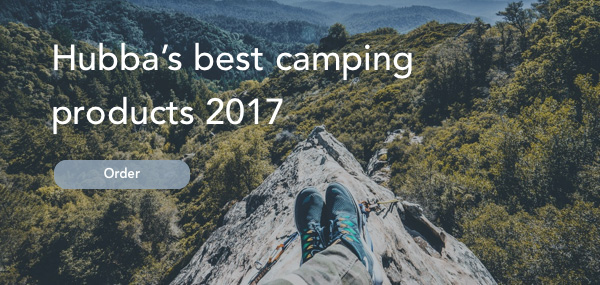
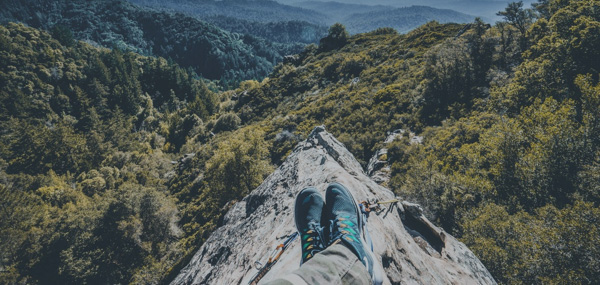
added background image, more buttons, finessed padding, updated header image

Changed region(s): [[0.09, 0.1404, 0.69, 0.2807], [0.09, 0.3368, 0.48, 0.4772], [0.09, 0.5614, 0.33, 0.6737]]

diff --git a/index.html b/index.html
@@ -2,8 +2,8 @@
 <html xmlns="http://www.w3.org/1999/xhtml">
 <head>
 	<!-- NOTE: Created with assistance from Future proofing a responsive email - https://webdesign.tutsplus.com/tutorials/creating-a-future-proof-responsive-email-without-media-queries--cms-23919 -->
-
-	<!-- Email buttons taken from http://buttons.cm-->
+	<!-- Background image from https://backgrounds.cm/ -->
+	<!-- Email buttons from http://buttons.cm-->
 	<meta http-equiv="Content-Type" content="text/html; charset=utf-8" />
     <!--[if !mso]><!-->
         <meta http-equiv="X-UA-Compatible" content="IE=edge" />
@@ -29,7 +29,31 @@
 			<table class="outer" align="center">
 				<tr>
 					<td class="full-width-image">
-						<img src="images/header.jpg" width="600" alt="" />
+						<table cellpadding="0" cellspacing="0" border="0" height="285" width="100%">
+							<tr>
+								<td background="images/header.jpg" bgcolor="#7bceeb" valign="top">
+								<!--[if gte mso 9]>
+								<v:rect xmlns:v="urn:schemas-microsoft-com:vml" fill="true" stroke="false" style="mso-width-percent:1000;height:92px;">
+								<v:fill type="tile" src="https://i.imgur.com/YJOX1PC.png" color="#7bceeb" />
+								<v:textbox inset="0,0,0,0">
+								<![endif]-->
+							<div class="wrapper">
+								<h1>Hubba's best camping products 2017</h1>
+								<div><!--[if mso]>
+								  <v:roundrect xmlns:v="urn:schemas-microsoft-com:vml" xmlns:w="urn:schemas-microsoft-com:office:word" href="http://www.hubba.com" style="height:29px;v-text-anchor:middle;width:136px;" arcsize="44%" strokecolor="#91A4B5" fillcolor="#91A4B5">
+								    <w:anchorlock/>
+								    <center style="color:#ffffff;font-family:sans-serif;font-size:13px;font-weight:bold;">Order</center>
+								  </v:roundrect>
+								<![endif]--><a href="http://www.hubba.com" target="_blank" 
+								style="background-color:rgba(145,164,181,.8);border:1px solid #91A4B5;border-radius:12.5px;color:#ffffff;display:inline-block;font-family:sans-serif;font-size:13px;line-height:29px;text-align:center;text-decoration:none;width:136px;-webkit-text-size-adjust:none;mso-hide:all;">Order</a></div>
+					    	</div>
+					    	<!--[if gte mso 9]>
+					    	</v:textbox>
+					   		</v:rect>
+					    	<![endif]-->
+					    </td>
+					  </tr>
+					</table>
 					</td>
 				</tr>
 

diff --git a/script.js b/script.js
@@ -44,7 +44,7 @@ $('.cheers').append (`
 	<table width="100%">
 		<tr>
 			<td class="inner contents">
-			<p>We hope you love these products. If you don’t please let us know how we can help. We’d love to hear more from you!</p>
+			<p>Thanks very much for checking out the best of Hubba’s camping products. Make sure to click to find out more about the product.</p>
 				<p>Cheers, <br>
 				The Team at Hubba </p>
 			</td>
@@ -93,16 +93,17 @@ for (i = 0; i <= campingProducts.length; i++) {
 												<td class="text contentsText">
 													<span class="companyName">${campingProducts[i].companyName}</span> - <span class="productName">${campingProducts[i].productName}</span>
 															<p class="productDescription">${campingProducts[i].productDescription}</p>
-															<p>
-																<strong class="mrsp">MRSP: ${campingProducts[i].MSPR}</strong>
-																<div><!--[if mso]>
+															
+																
+																<div>
+																<span class="mrsp">MRSP: ${campingProducts[i].MSPR}</span><!--[if mso]>
 																  <v:roundrect xmlns:v="urn:schemas-microsoft-com:vml" xmlns:w="urn:schemas-microsoft-com:office:word" href="http://" style="height:25px;v-text-anchor:middle;width:80px;" arcsize="100%" strokecolor="#91a4b5" fillcolor="#fff">
 																    <w:anchorlock/>
 																    <center style="color:#3b4c56;font-family:sans-serif;font-size:13px;font-weight:bold;">Order</center>
 																  </v:roundrect>
 																<![endif]--><a href="${campingProducts[i].URL}"
 																style="background-color:#fff;border:1px solid #91a4b5;border-radius:25px;color:#3b4c56;display:inline-block;font-family:sans-serif;font-size:11px;line-height:25px;text-align:center;text-decoration:none;width:80px;height:25px;-webkit-text-size-adjust:none;mso-hide:all;">Order</a></div>
-															</p>
+															
 
 															
 												</td>

diff --git a/styles.css b/styles.css
@@ -7,7 +7,7 @@ body {
 table {
     border-spacing: 0;
     font-family: 'Avenir', sans-serif;
-    color: #333333;
+    color: #263137;
 }
 td {
     padding: 0;
@@ -35,6 +35,20 @@ Margin: 0 auto;
     max-width: 600px;
 }
 
+.full-width-image h1 {
+    color:#fff;
+    
+    font-size: 36px;
+    line-height: 54px;
+    font-weight: 400;
+    margin: 0;
+}
+
+.full-width-image div.wrapper {
+    padding: 35px 55px;
+    max-width: 490px;
+}
+
 .full-width-image img {
     width: 100%;
     max-width: 600px;
@@ -47,7 +61,7 @@ Margin: 0 auto;
 
 @media screen and (min-width:600px) {
     .one-column .inner {
-        padding: 30px 50px;
+        padding: 30px 50px 0;
     }
 }
 
@@ -144,11 +158,12 @@ a.button {
 
 .productDescription {
     Margin-top:20px;
-    Margin-bottom:40px;
+    Margin-bottom:33px;
     font-style: italic;
 }
 
 .mrsp {
     min-width: 100px;
     display: inline-block;
+    font-weight: 500;
 }
